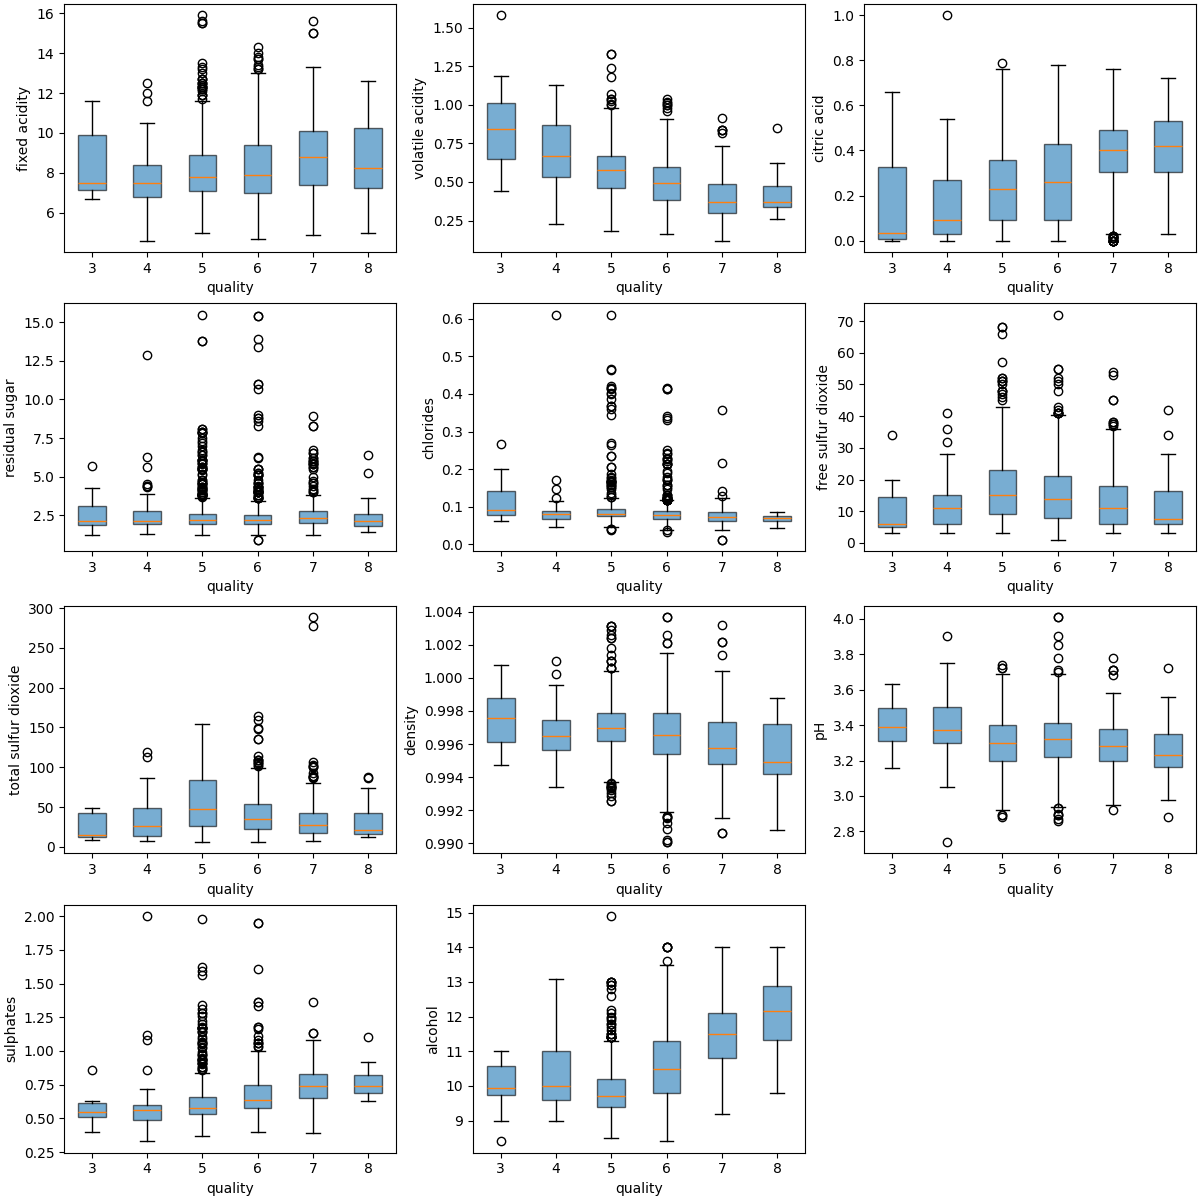
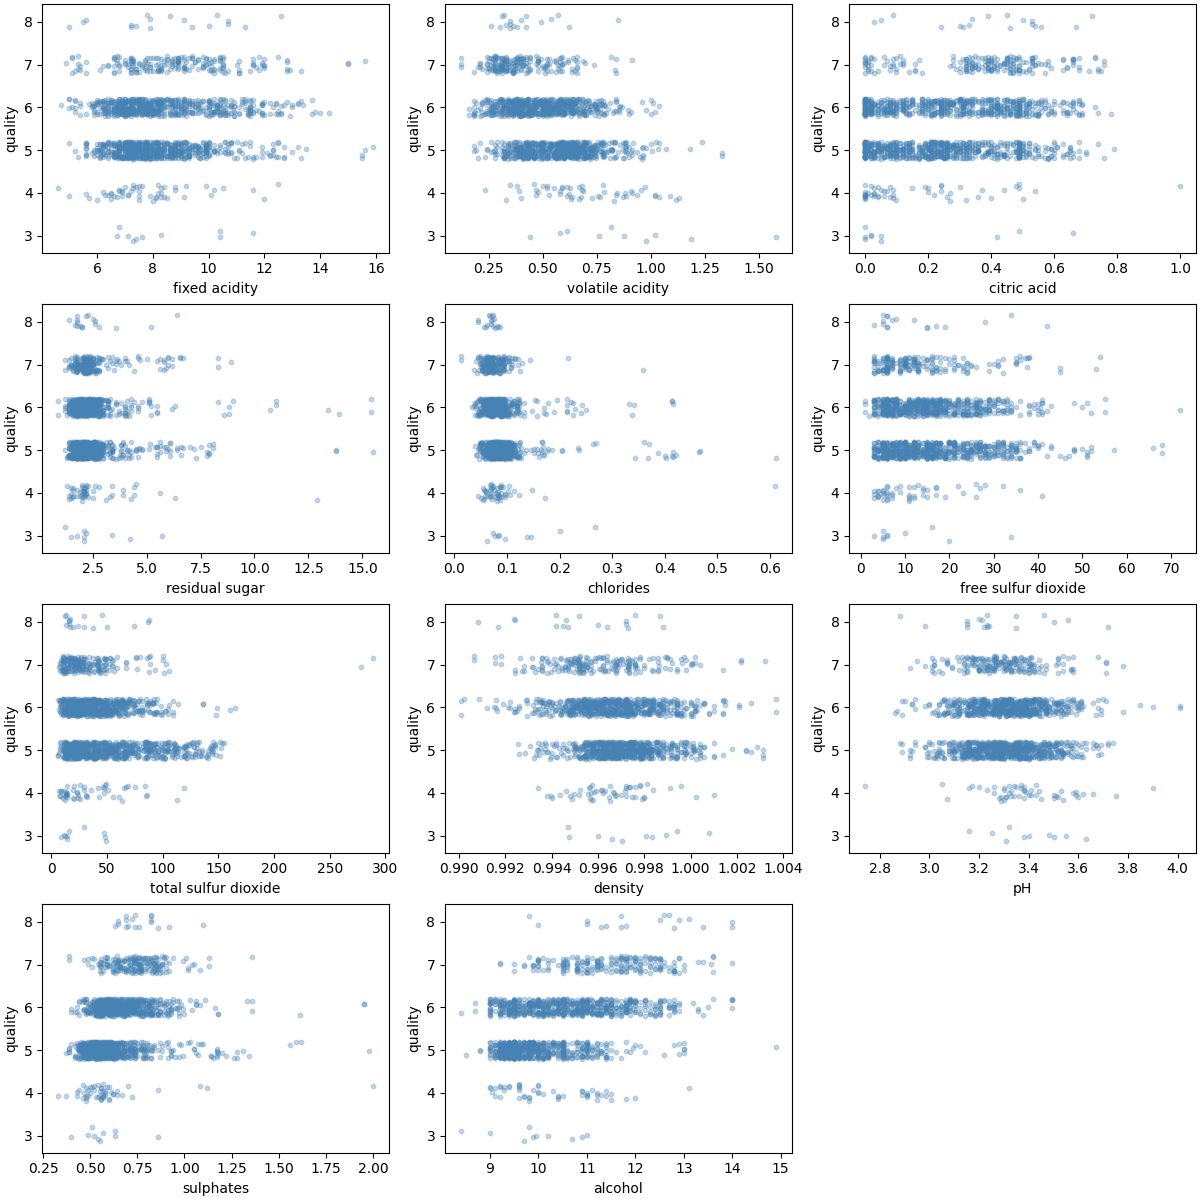
fix

diff --git a/src/data_analysis/raw_data_description.py b/src/data_analysis/raw_data_description.py
@@ -7,42 +7,6 @@ import utils
 
 
 def plot_feature_vs_quality(df: pd.DataFrame):
-    quality_values = sorted(df["quality"].unique())
-    num_features = len(config.FEATURES)
-    num_cols = 3
-    num_rows = (num_features + num_cols - 1) // num_cols
-
-    _, axes = plt.subplots(
-        num_rows,
-        num_cols,
-        figsize=(num_cols * 4, num_rows * 3),
-        constrained_layout=True,
-    )
-
-    groups = [df[df["quality"] == q] for q in quality_values]
-
-    for i, feature in enumerate(config.FEATURES):
-        r, c = divmod(i, num_cols)
-        ax = axes[r, c]
-
-        bp = ax.boxplot(
-            [g[feature] for g in groups],
-            labels=[str(q) for q in quality_values],
-            patch_artist=True,
-        )
-
-        for box in bp["boxes"]:
-            box.set_alpha(0.6)
-
-        ax.set_xlabel("quality")
-        ax.set_ylabel(feature)
-
-    for i in range(num_features, num_rows * num_cols):
-        r, c = divmod(i, num_cols)
-        axes[r, c].set_visible(False)
-
-
-def plot_feature_vs_quality_scatter(df: pd.DataFrame):
     num_features = len(config.FEATURES)
     num_cols = 3
     num_rows = (num_features + num_cols - 1) // num_cols
@@ -72,7 +36,7 @@ def plot_feature_vs_quality_scatter(df: pd.DataFrame):
         axes[r, c].set_visible(False)
 
 
-def plot_correlation_heatmap(df: pd.DataFrame):
+def plot_correlation(df: pd.DataFrame):
     cols = config.FEATURES + ["quality"]
     corr = pd.DataFrame(df[cols]).corr()
 
@@ -93,7 +57,7 @@ def plot_correlation_heatmap(df: pd.DataFrame):
     fig.colorbar(im, ax=ax)
 
 
-def plot_feature_histograms(df: pd.DataFrame):
+def plot_feature_distribution(df: pd.DataFrame):
     num_features = len(config.FEATURES)
     num_cols = 3
     num_rows = (num_features + num_cols - 1) // num_cols
@@ -141,19 +105,13 @@ def describe_raw_data():
     )
 
     utils.make_plot(
-        title="Feature vs Quality (Scatter)",
-        file_name="feature_vs_quality_scatter",
-        plot=lambda: plot_feature_vs_quality_scatter(df),
-    )
-
-    utils.make_plot(
         title="Raw Data Correlation",
         file_name="raw_data_correlation",
-        plot=lambda: plot_correlation_heatmap(df),
+        plot=lambda: plot_correlation(df),
     )
 
     utils.make_plot(
         title="Feature Distributions",
         file_name="feature_distributions",
-        plot=lambda: plot_feature_histograms(df),
+        plot=lambda: plot_feature_distribution(df),
     )

diff --git a/src/data_analysis/processed_data_description.py b/src/data_analysis/processed_data_description.py
@@ -65,7 +65,7 @@ def plot_split_class_distribution(
     plt.legend()
 
 
-def plot_correlation_heatmap(df: pd.DataFrame):
+def plot_correlation(df: pd.DataFrame):
     cols = config.FEATURES + [config.LABEL]
     subset: pd.DataFrame = cast(pd.DataFrame, df[cols])
     corr = subset.corr()
@@ -88,44 +88,6 @@ def plot_correlation_heatmap(df: pd.DataFrame):
 
 
 def plot_feature_vs_label(df: pd.DataFrame):
-    num_features = len(config.FEATURES)
-    num_cols = 3
-    num_rows = (num_features + num_cols - 1) // num_cols
-
-    _, axes = plt.subplots(
-        num_rows,
-        num_cols,
-        figsize=(num_cols * 4, num_rows * 3),
-        constrained_layout=True,
-    )
-
-    group_0 = df[df[config.LABEL] == 0]
-    group_1 = df[df[config.LABEL] == 1]
-
-    for i, feature in enumerate(config.FEATURES):
-        r, c = divmod(i, num_cols)
-        ax = axes[r, c]
-
-        bp = ax.boxplot(
-            [group_0[feature], group_1[feature]], labels=["0", "1"], patch_artist=True
-        )
-
-        bp["boxes"][0].set_facecolor("red")
-        bp["boxes"][1].set_facecolor("blue")
-
-        for box in bp["boxes"]:
-            box.set_alpha(0.6)
-
-        ax.set_xlabel(config.LABEL)
-        ax.set_ylabel(feature)
-
-    # Nasconde gli assi vuoti se il numero di feature non riempie la griglia
-    for i in range(num_features, num_rows * num_cols):
-        r, c = divmod(i, num_cols)
-        axes[r, c].set_visible(False)
-
-
-def plot_feature_vs_label_scatter(df: pd.DataFrame):
     num_features = len(config.FEATURES)
     num_cols = 3
     num_rows = (num_features + num_cols - 1) // num_cols
@@ -189,17 +151,11 @@ def describe_processed_data():
     utils.make_plot(
         title="Processed Data Correlation",
         file_name="processed_data_correlation",
-        plot=lambda: plot_correlation_heatmap(df),
+        plot=lambda: plot_correlation(df),
     )
 
     utils.make_plot(
         title="Feature vs Label",
         file_name="feature_vs_label",
         plot=lambda: plot_feature_vs_label(df),
-    )
-
-    utils.make_plot(
-        title="Feature vs Label (Scatter)",
-        file_name="feature_vs_label_scatter",
-        plot=lambda: plot_feature_vs_label_scatter(df),
     )

diff --git a/src/preprocessing/remove_outliers.py b/src/preprocessing/remove_outliers.py
@@ -18,8 +18,8 @@ def remove_outliers() -> None:
     rows_after = len(df)
     removed = rows_before - rows_after
 
-    print(f"Righe prima del filtraggio: {rows_before}")
-    print(f"Righe dopo il filtraggio:   {rows_after}")
-    print(f"Righe rimosse:              {removed} ({removed / rows_before * 100:.1f}%)")
+    print(f"Rows before filtering: {rows_before}")
+    print(f"Rows after filtering:  {rows_after}")
+    print(f"Rows removed:          {removed} ({removed / rows_before * 100:.1f}%)")
 
     utils.save_csv(df, "winequality-red-filtered")

diff --git a/src/main.py b/src/main.py
@@ -21,7 +21,7 @@ def parse_args():
             "evaluate",
         ],
         required=True,
-        help="Azione da eseguire",
+        help="Action to perform",
     )
     return parser.parse_args()
 
